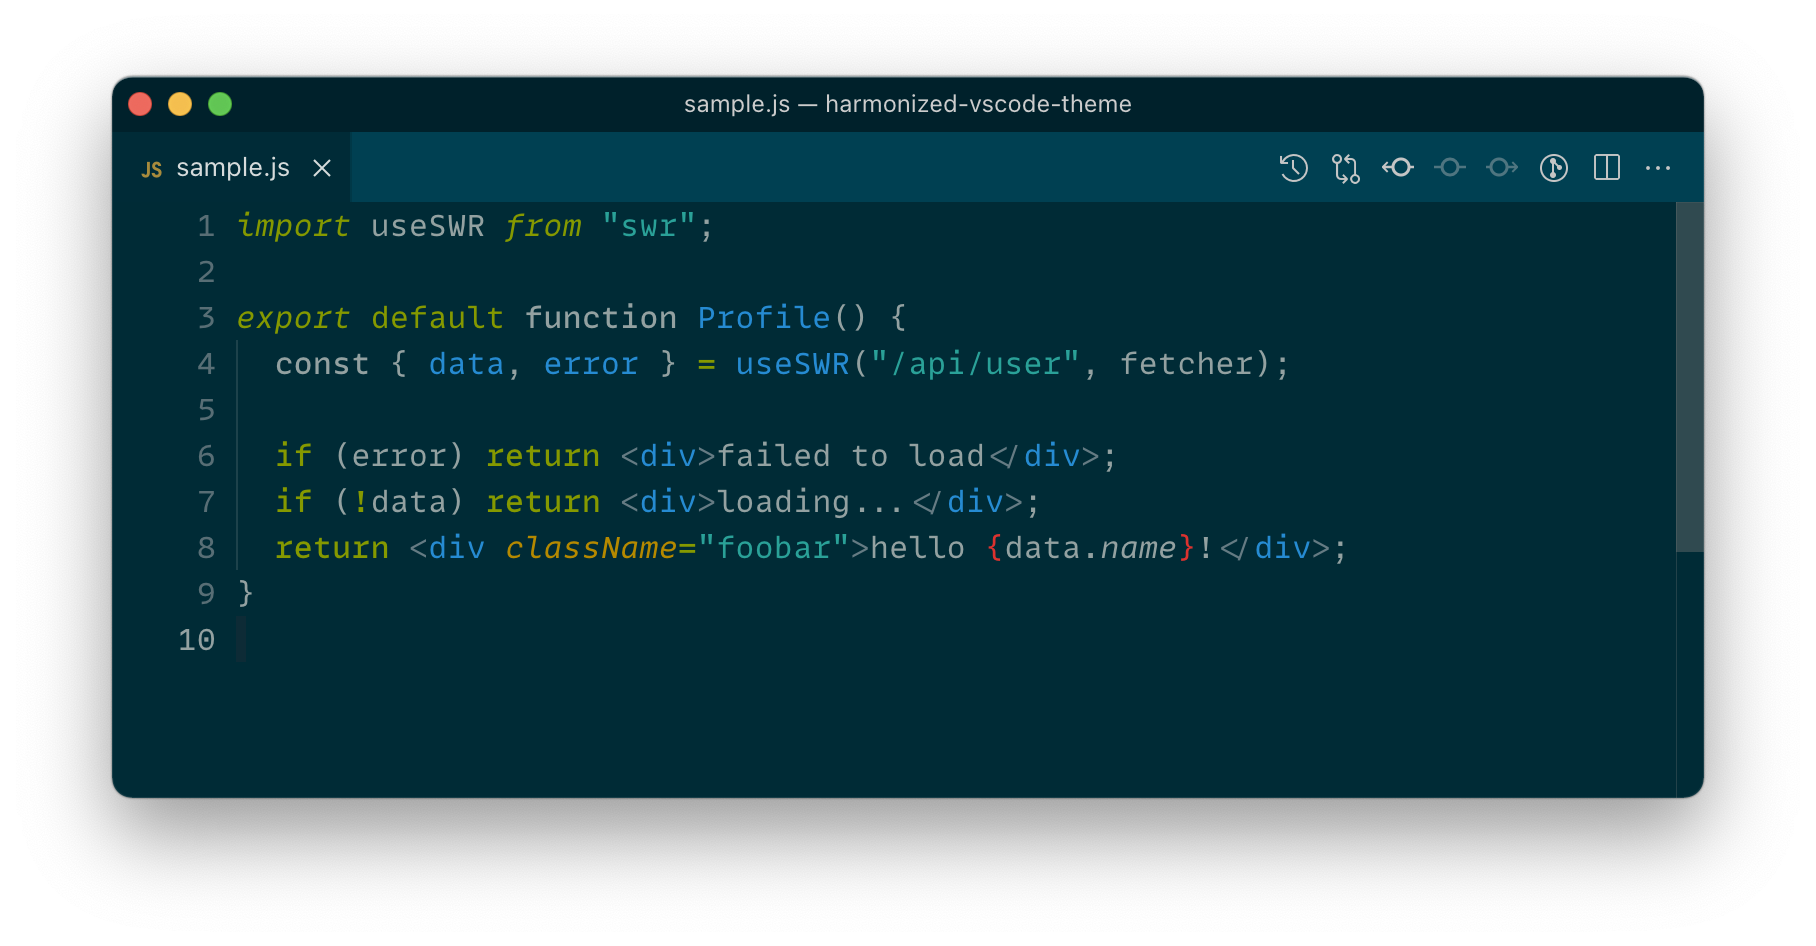
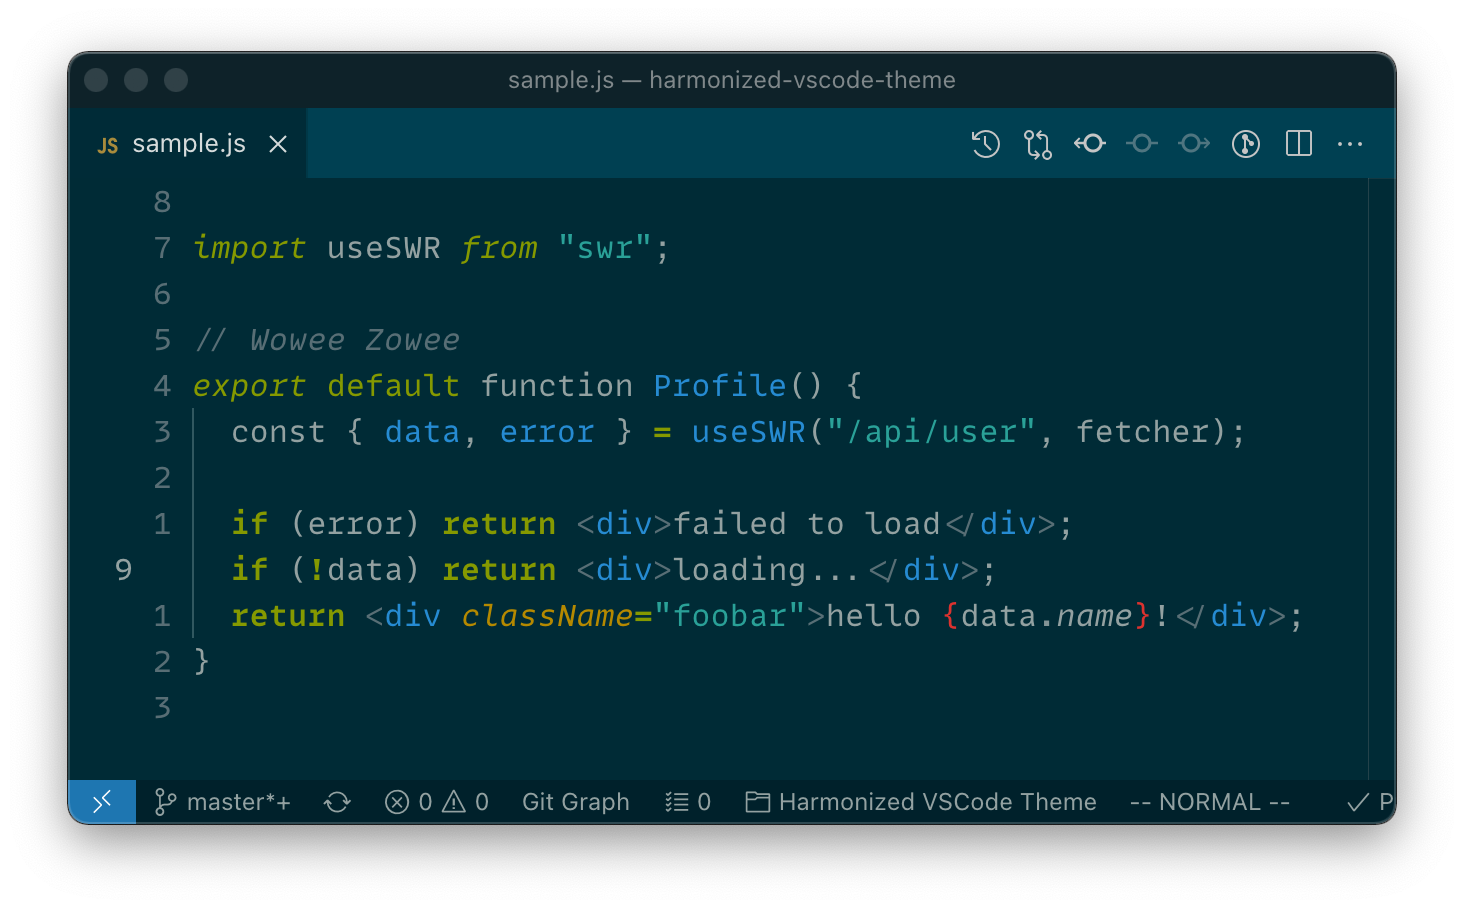
New images

diff --git a/extra/sample.js b/extra/sample.js
@@ -1,5 +1,7 @@
+
 import useSWR from "swr";
 
+// Wowee Zowee
 export default function Profile() {
   const { data, error } = useSWR("/api/user", fetcher);
 

diff --git a/README.md b/README.md
@@ -17,8 +17,12 @@ Harmonized extends the distributed versions of the Solarized Themes from the VSC
   <img src="https://github.com/wheredoesyourmindgo/harmonized-vscode-theme/raw/master/images/light_hc.png" alt="Light theme - High Contrast with accent color" width="700" />
   <div style="padding-top:16px;padding-bottom:16px;"></div>
   <img src="https://github.com/wheredoesyourmindgo/harmonized-vscode-theme/raw/master/images/dark_hc.png" alt="Dark theme - High Contrast with accent color" width="700" />
+  <div style="padding-top:8px;padding-bottom:8px;"></div>
+  <h4>Accented Variants</h4>
+  <div style="padding-top:8px;padding-bottom:8px;"></div>
+  <img src="https://github.com/wheredoesyourmindgo/harmonized-vscode-theme/raw/master/images/light_accent.png" alt="Light theme - High Contrast with accent color" width="700" />
+  <div style="padding-top:16px;padding-bottom:16px;"></div>
+  <img src="https://github.com/wheredoesyourmindgo/harmonized-vscode-theme/raw/master/images/dark_accent.png" alt="Dark theme - High Contrast with accent color" width="700" />
 </div>
 
-### Attribution
 
-Icon template provided via Freepik <a href="https://www.freepik.com/free-photos-vectors/technology">Technology vector created by studiogstock - www.freepik.com</a>
